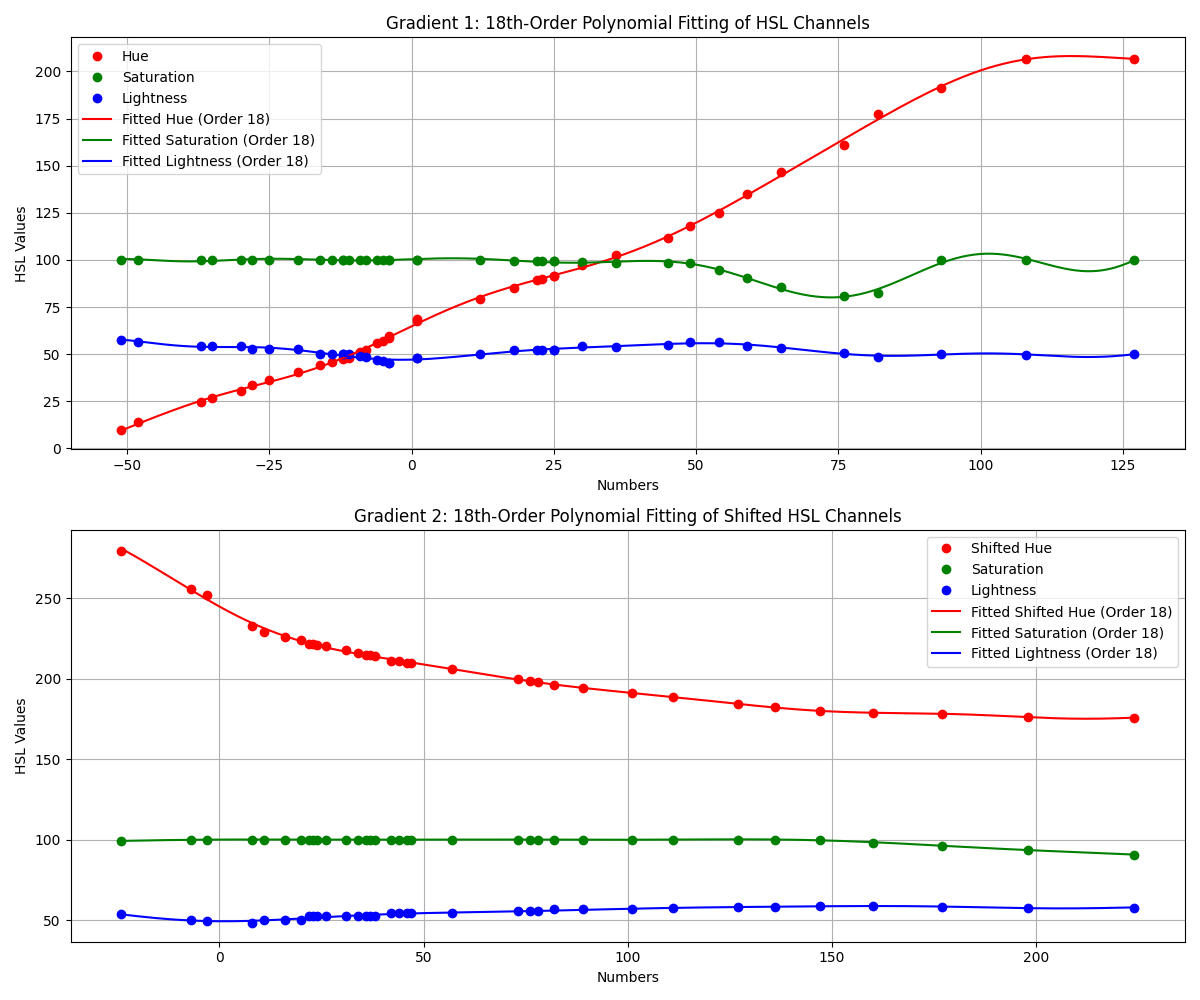
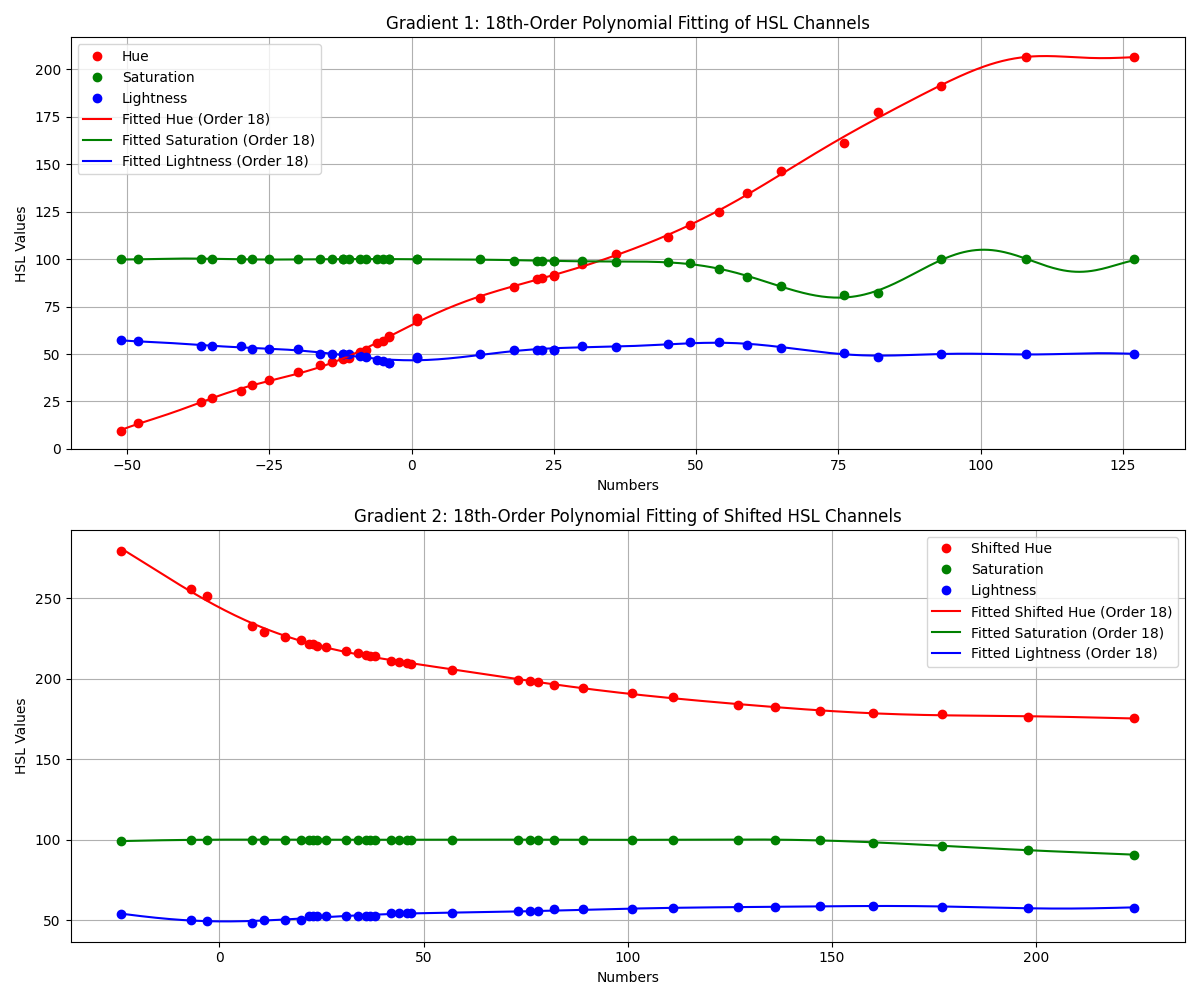
Refactor fitting.py to extend and fit HSL values for two gradients and update linear_extension function

diff --git a/src/getColor.ts b/src/getColor.ts
@@ -1,0 +1,149 @@
+export function getColor(x: number, useGradient1: boolean): string {
+  // Define the data intervals for both gradients
+  const gradient1Range = { min: -51, max: 127 };
+  const gradient2Range = { min: -24, max: 224 };
+
+  // Polynomial coefficients for Gradient 1 (Order 13)
+  const hueCoeffs1 = [
+    1.08e-24, // x^13
+    -1.6458e-21, // x^12
+    5.9792e-19, // x^11
+    -7.1754e-17, // x^10
+    -1.903e-15, // x^9
+    9.9128e-13, // x^8
+    -3.7434e-11, // x^7
+    -4.4037e-9, // x^6
+    2.6251e-7, // x^5
+    8.3536e-6, // x^4
+    -5.3593e-4, // x^3
+    -5.645e-3, // x^2
+    1.3851, // x^1
+    6.4608e1, // x^0
+  ];
+
+  const saturationCoeffs1 = [
+    3.9025e-23, -1.8541e-20, 2.5993e-18, 3.6865e-17, -3.3682e-14, 1.259e-12,
+    1.5231e-10, -7.5495e-9, -3.2445e-7, 1.3969e-5, 3.0625e-4, -7.7753e-3,
+    -9.9559e-2, 1.0018e2,
+  ];
+
+  const lightnessCoeffs1 = [
+    -8.7953e-24, 4.2243e-21, -6.1954e-19, -3.3505e-18, 8.2969e-15, -4.6545e-13,
+    -3.4206e-11, 3.3665e-9, 4.3884e-8, -9.7411e-6, -3.8164e-6, 1.3902e-2,
+    -6.1203e-3, 4.7244e1,
+  ];
+
+  // Polynomial coefficients for Gradient 2 (Order 13)
+  const hueCoeffs2 = [
+    -5.153e-28, 6.8154e-25, -3.1043e-22, 3.6092e-20, 1.3242e-17, -3.7569e-15,
+    -4.9566e-14, 9.5761e-11, -3.9227e-9, -1.1084e-6, 5.9165e-5, 9.1471e-3,
+    -1.214, 2.4478e2,
+  ];
+
+  const saturationCoeffs2 = [
+    2.2966e-29, -3.3799e-26, 1.7011e-23, -2.2155e-21, -7.9369e-19, 2.2702e-16,
+    9.2765e-15, -6.3305e-12, -2.8724e-11, 7.9759e-8, 5.4664e-7, -5.8315e-4,
+    1.8896e-2, 9.9931e1,
+  ];
+
+  const lightnessCoeffs2 = [
+    -1.3279e-29, -1.2895e-26, 3.0892e-23, -1.6192e-20, 2.3427e-18, 5.2936e-16,
+    -1.8137e-13, 3.5198e-12, 3.5782e-9, -2.637e-7, -2.715e-5, 3.3561e-3,
+    -7.3413e-3, 5.0195e1,
+  ];
+
+  // Function to evaluate the polynomial using Horner's method
+  function evaluatePolynomial(coeffs: number[], x: number): number {
+    let result = 0;
+    for (let coeff of coeffs) {
+      result = result * x + coeff;
+    }
+    return result;
+  }
+
+  // Constrain x to the interval of the selected gradient
+  if (useGradient1) {
+    x = Math.max(gradient1Range.min, Math.min(gradient1Range.max, x));
+  } else {
+    x = Math.max(gradient2Range.min, Math.min(gradient2Range.max, x));
+  }
+
+  // Compute HSL values based on the selected gradient
+  let h: number, s: number, l: number;
+
+  if (useGradient1) {
+    h = evaluatePolynomial(hueCoeffs1, x);
+    s = evaluatePolynomial(saturationCoeffs1, x);
+    l = evaluatePolynomial(lightnessCoeffs1, x);
+  } else {
+    h = evaluatePolynomial(hueCoeffs2, x);
+    s = evaluatePolynomial(saturationCoeffs2, x);
+    l = evaluatePolynomial(lightnessCoeffs2, x);
+  }
+
+  // Ensure HSL values are within valid ranges
+  h = ((h % 360) + 360) % 360; // Wrap hue to [0, 360)
+  s = Math.max(0, Math.min(100, s)); // Clamp saturation to [0, 100]
+  l = Math.max(0, Math.min(100, l)); // Clamp lightness to [0, 100]
+
+  // Convert HSL to RGB
+  function hslToRgb(
+    h: number,
+    s: number,
+    l: number,
+  ): { r: number; g: number; b: number } {
+    s /= 100;
+    l /= 100;
+    const c = (1 - Math.abs(2 * l - 1)) * s;
+    const hPrime = h / 60;
+    const x = c * (1 - Math.abs((hPrime % 2) - 1));
+    let r1 = 0,
+      g1 = 0,
+      b1 = 0;
+
+    if (0 <= hPrime && hPrime < 1) {
+      r1 = c;
+      g1 = x;
+    } else if (1 <= hPrime && hPrime < 2) {
+      r1 = x;
+      g1 = c;
+    } else if (2 <= hPrime && hPrime < 3) {
+      g1 = c;
+      b1 = x;
+    } else if (3 <= hPrime && hPrime < 4) {
+      g1 = x;
+      b1 = c;
+    } else if (4 <= hPrime && hPrime < 5) {
+      r1 = x;
+      b1 = c;
+    } else if (5 <= hPrime && hPrime < 6) {
+      r1 = c;
+      b1 = x;
+    }
+
+    const m = l - c / 2;
+    const r = Math.round((r1 + m) * 255);
+    const g = Math.round((g1 + m) * 255);
+    const b = Math.round((b1 + m) * 255);
+
+    return { r, g, b };
+  }
+
+  // Convert RGB to Hexadecimal string
+  function rgbToHex(r: number, g: number, b: number): string {
+    return (
+      "#" +
+      [r, g, b]
+        .map((x) => {
+          const hex = x.toString(16);
+          return hex.length === 1 ? "0" + hex : hex;
+        })
+        .join("")
+    );
+  }
+
+  const { r, g, b } = hslToRgb(h, s, l);
+  const hexColor = rgbToHex(r, g, b);
+
+  return hexColor;
+}

diff --git a/src/index.ts b/src/index.ts
@@ -1,4 +1,5 @@
 import { factions } from "./factions";
+import { getColor } from "./getColor";
 import "./styles.scss";
 
 // Commodities and conversion rates (Aluminum = 1.0)
@@ -126,18 +127,9 @@ function recommendTradeRoutes() {
         : `${tradeInfo.profitPercentage.toFixed(2)}%`;
 
     // Get colors for percentages
-    const sellPercentageColor = getColorForPercentage(
-      tradeInfo.bestSellPercentage,
-      false,
-    );
-    const buyPercentageColor = getColorForPercentage(
-      tradeInfo.bestBuyPercentage,
-      true,
-    );
-    const profitPercentageColor = getColorForPercentage(
-      tradeInfo.profitPercentage,
-      false,
-    );
+    const sellPercentageColor = getColor(tradeInfo.bestSellPercentage, false);
+    const buyPercentageColor = getColor(tradeInfo.bestBuyPercentage, true);
+    const profitPercentageColor = getColor(tradeInfo.profitPercentage, false);
 
     const row = `<tr>
         <td>${tradeInfo.commodity}</td>

diff --git a/experiments/fitting.py b/experiments/fitting.py
@@ -50,19 +50,22 @@ hsl_values_2_shifted[:, 0] = (hsl_values_2_shifted[:, 0] + 180) % 360
 # Define how far to extend (number of extra points at each end)
 num_extra_points = 5
 
-# Function to linearly extend a dataset
+# Function to linearly extend a dataset with controlled step size
 def linear_extension(x_values, y_values, num_points, extend_forward=True):
+    # Calculate the step size using the left-side segment size
+    step_size = x_values[1] - x_values[0]  # Consistent step size
+
     if extend_forward:
-        # Calculate slope from last two points
+        # Extend forward using consistent step size
+        x_extension = np.linspace(x_values[-1] + step_size, x_values[-1] + step_size * num_points, num_points)
+        # Use the slope from the last two points
         slope = (y_values[-1] - y_values[-2]) / (x_values[-1] - x_values[-2])
-        # Extend forward
-        x_extension = np.linspace(x_values[-1], x_values[-1] + (x_values[-1] - x_values[-2]) * num_points, num_points + 1)[1:]
         y_extension = y_values[-1] + slope * (x_extension - x_values[-1])
     else:
-        # Calculate slope from first two points
-        slope = (y_values[1] - y_values[0]) / (x_values[1] - x_values[0])
         # Extend backward
-        x_extension = np.linspace(x_values[0] - (x_values[1] - x_values[0]) * num_points, x_values[0], num_points + 1)[:-1]
+        x_extension = np.linspace(x_values[0] - step_size * num_points, x_values[0] - step_size, num_points)
+        # Use the slope from the first two points
+        slope = (y_values[1] - y_values[0]) / (x_values[1] - x_values[0])
         y_extension = y_values[0] + slope * (x_extension - x_values[0])
     return x_extension, y_extension
 
@@ -122,7 +125,7 @@ def format_polynomial(coeffs):
 # Initialize list to store coefficients
 coefficients_list = []
 
-# Loop over fit orders from 1 to 31
+# Loop over fit orders from 1 to 19
 for fit_order in range(1, 20):
     # Perform polynomial fitting for both extended datasets (Gradient 1 and Gradient 2)
     
